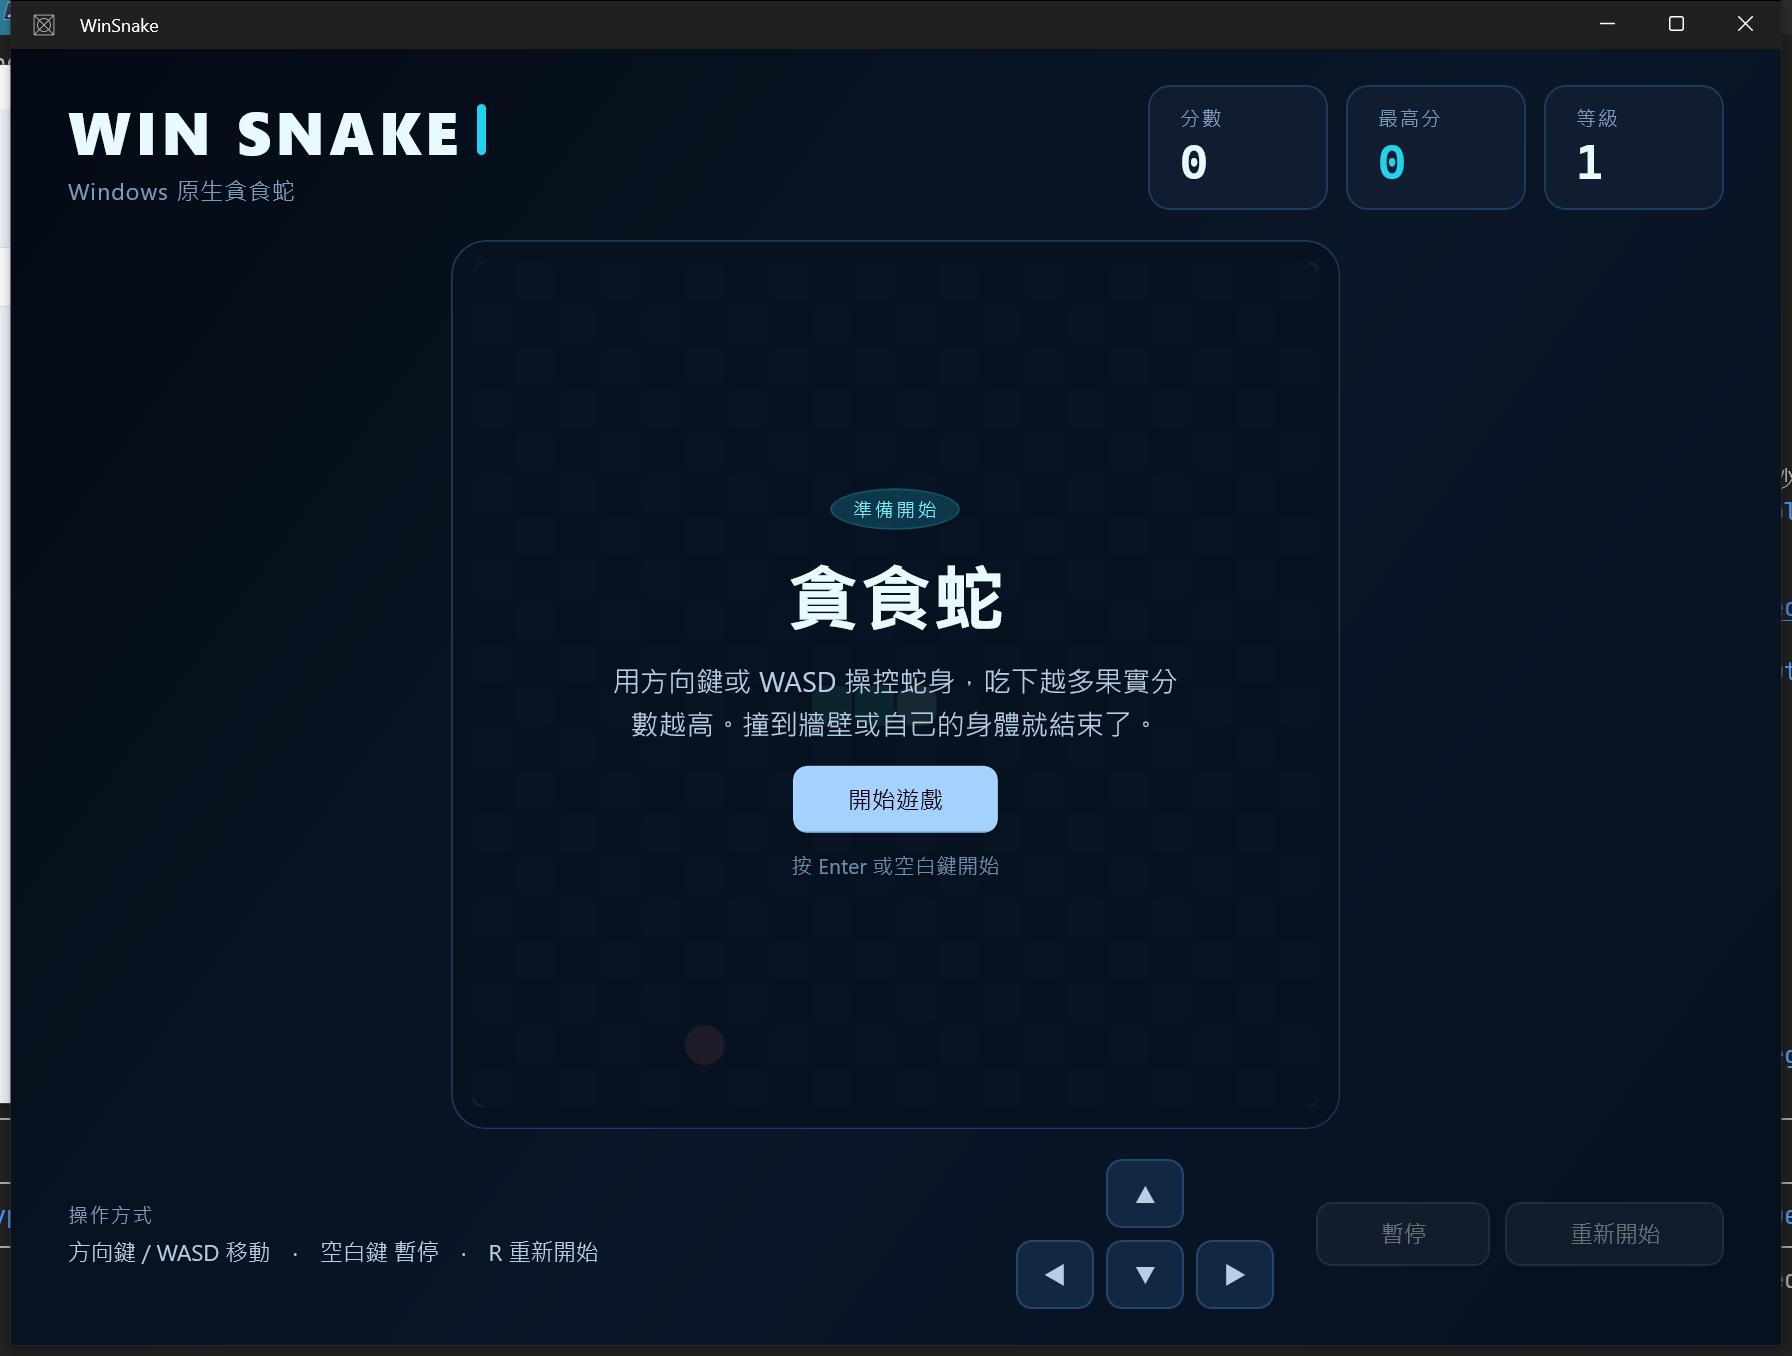
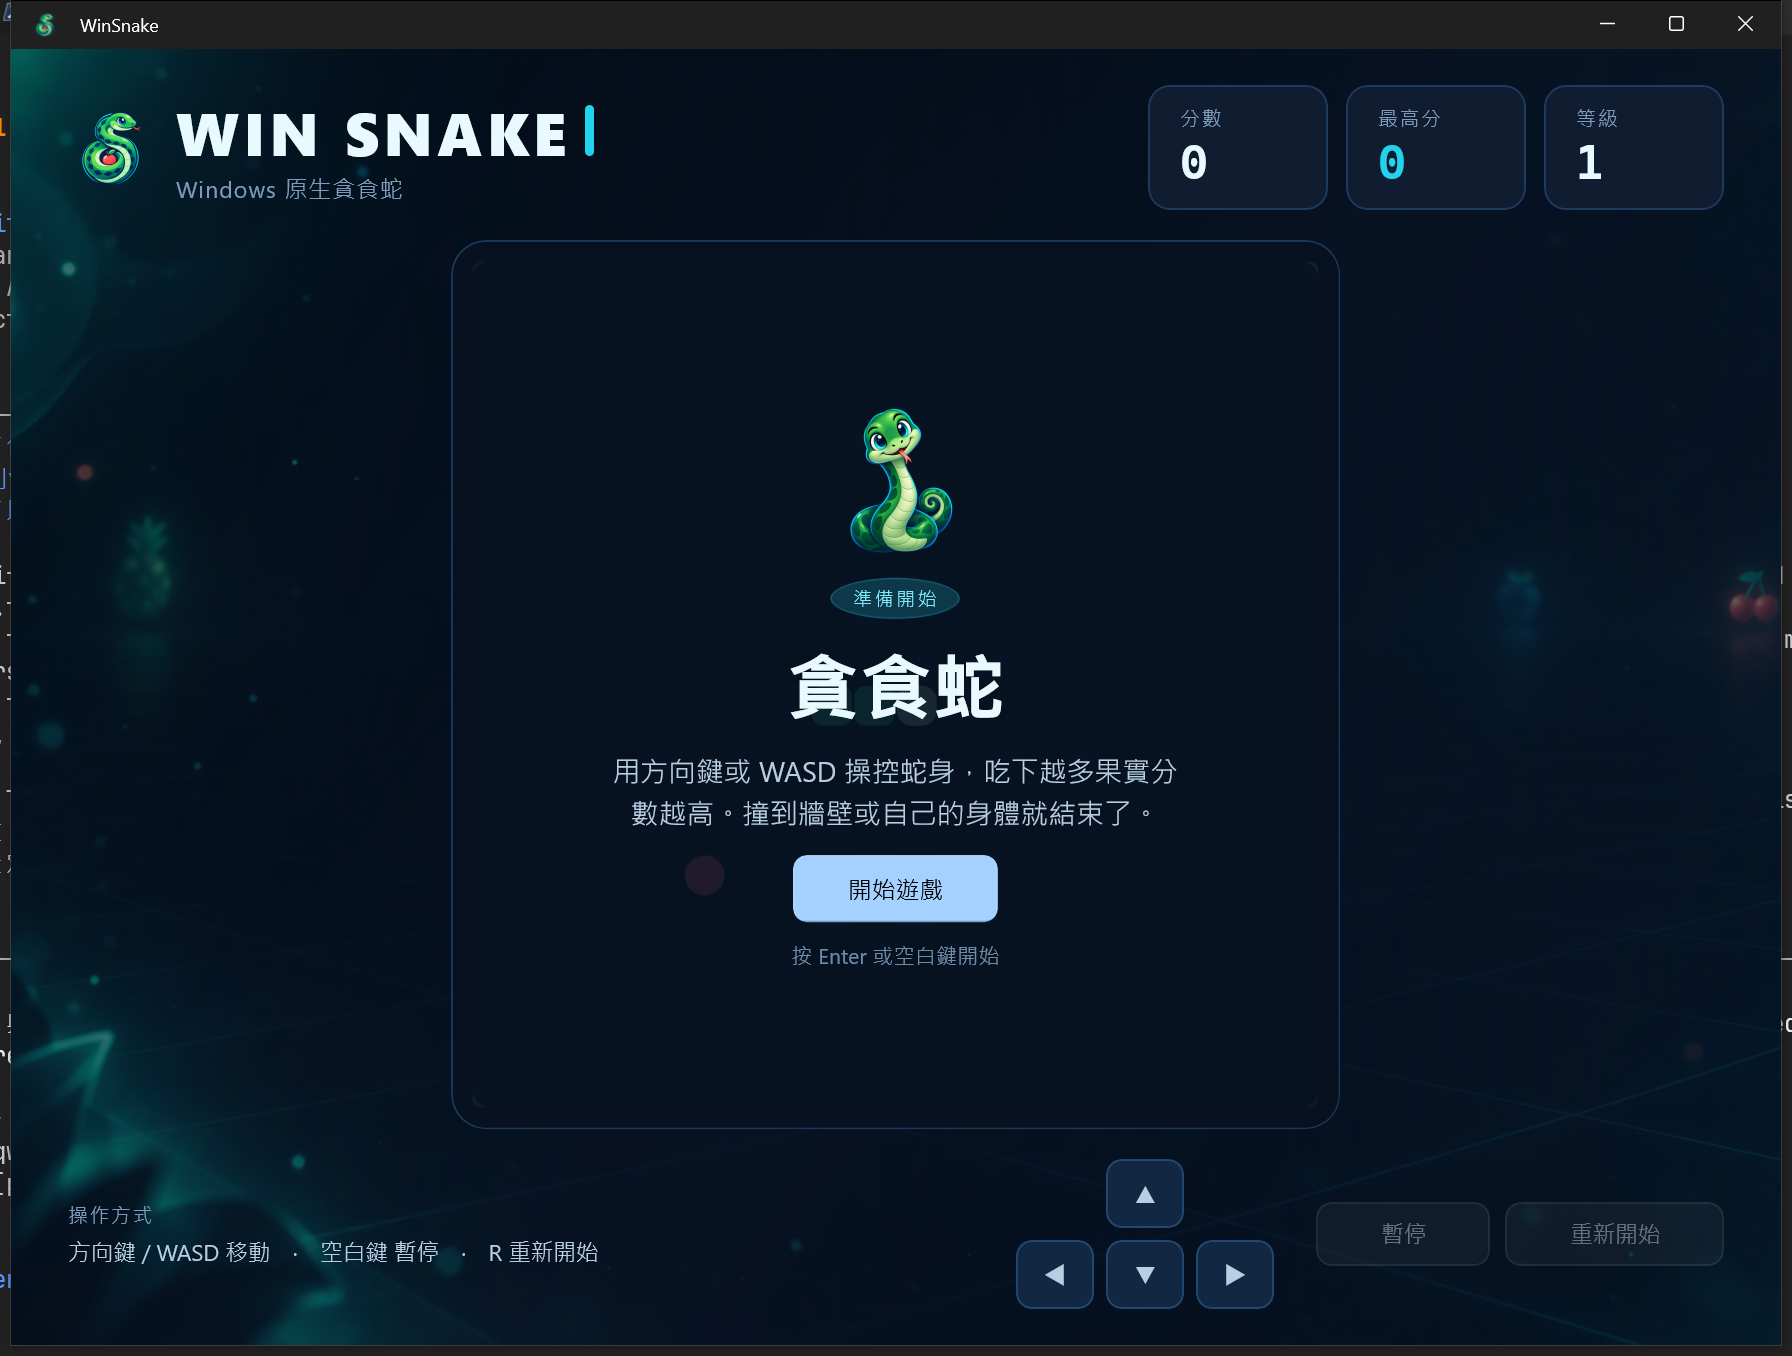
docs: 更新品牌標誌、遊戲截圖與 README
- README 頂部加入 docs/logo.png 品牌標誌
- 更新功能列表與專案結構，補上 Assets/Branding
- 以新版畫面重新產生 docs/screenshot.png（含標誌、角色與背景）

diff --git a/README.md b/README.md
@@ -1,3 +1,7 @@
+<p align="center">
+  <img src="docs/logo.png" width="160" alt="WinSnake 標誌" />
+</p>
+
 # WinSnake（貪食蛇）
 
 以 **WinUI 3 / Windows App SDK** 打造的 Windows 原生貪食蛇遊戲。提供免安裝的單一檔案可攜版，下載後直接執行即可遊玩。
@@ -34,6 +38,7 @@
 - 20×20 棋盤，吃到果實會成長並加分，每吃 5 顆果實提升等級
 - 速度隨分數加快；撞到牆壁或自己的身體即結束
 - 最高分自動保存（封裝版使用套件設定，可攜版使用 `%LOCALAPPDATA%\WinSnake\highscore.json`）
+- 專屬品牌標誌、霓虹背景與蛇角色點綴
 - 深色霓虹介面、等比縮放棋盤、視窗最小尺寸限制
 - 鍵盤與螢幕按鈕皆可操作，文字尺寸針對高 DPI 螢幕調整
 - 遊戲規則為獨立類別庫，附 14 個單元測試
@@ -86,6 +91,8 @@ dotnet publish WinSnake.csproj -p:PublishProfile=Portable-win-x64
 WinSnake/
 ├─ Core/                      # 遊戲引擎（與 UI 無關）
 ├─ Tests/WinSnake.Core.Tests  # xUnit 單元測試
+├─ Assets/Branding/           # 標誌、蛇角色與霓虹背景
+├─ docs/logo.png              # README 品牌標誌
 ├─ docs/screenshot.png        # 遊戲截圖
 ├─ MainPage.xaml(.cs)         # 遊戲畫面、渲染與輸入
 ├─ MainWindow.xaml(.cs)       # 視窗尺寸、DPI 縮放與焦點暫停
